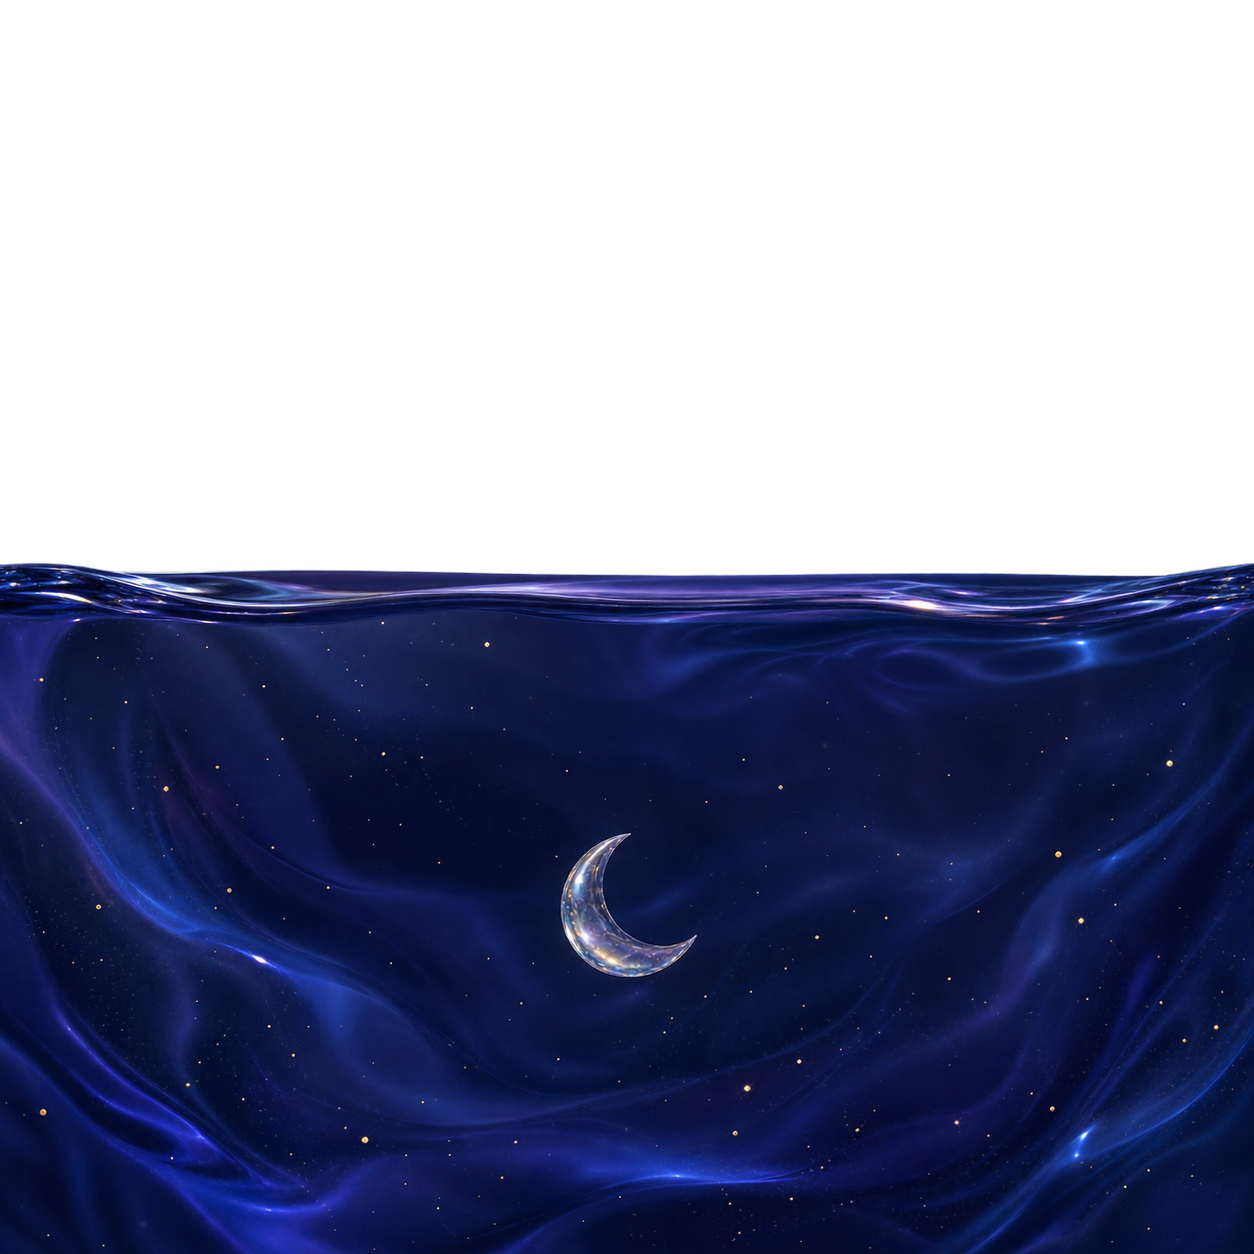
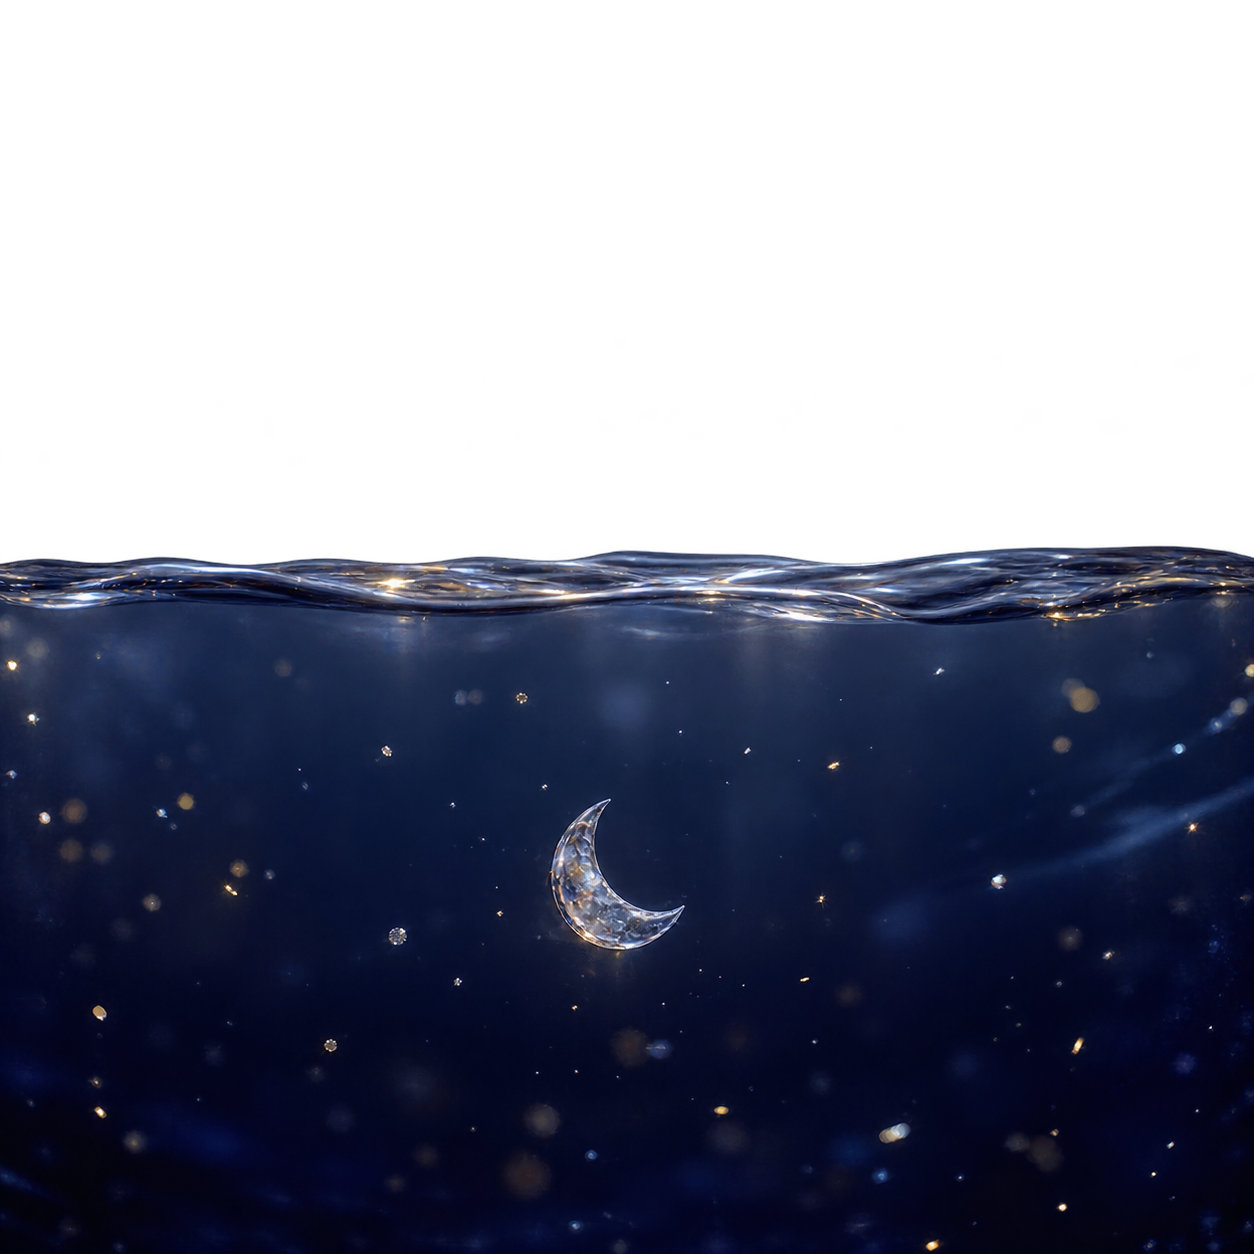
style: clarify night specimen optics

Changed region(s): [[0.0, 0.4354, 1.0, 1.0]]

diff --git a/styles.css b/styles.css
@@ -212,3 +212,4 @@ button { font:inherit; color:inherit; } .atmos { min-height:100svh; position:rel
 
 /* NIGHT AUDIO SPECIMEN: the artwork frame itself is the liquid cell — no nested tank. */
 .liquid-artwork.is-specimen-night { --fluid-x:0px; --fluid-y:0px; --fluid-angle:0deg; border:1px solid rgba(240,249,255,.58); border-radius:27px; background:transparent center / 100% 100% no-repeat url("./assets/audio-specimen-night-interior.png"); box-shadow:inset 0 1px rgba(255,255,255,.72),inset 7px 0 13px rgba(155,220,255,.1),inset -7px 0 13px rgba(216,181,255,.08),inset 0 -8px 14px rgba(106,128,220,.11); transform:none; transition:none; isolation:isolate; }.liquid-artwork.is-specimen-night::before { inset:0; border:0; border-radius:inherit; background:linear-gradient(118deg,rgba(255,255,255,.24),transparent 18% 69%,rgba(225,211,255,.08)); box-shadow:inset 1px 1px rgba(255,255,255,.48),inset -1px -1px rgba(161,215,255,.16); mix-blend-mode:screen; }.liquid-artwork.is-specimen-night::after { top:-45%; left:-58%; width:58%; height:180%; opacity:.12; background:linear-gradient(102deg,transparent 35%,rgba(255,255,255,.55) 49%,transparent 63%); animation-duration:22s; }.liquid-artwork.is-specimen-night .liquid-reflection { z-index:7; top:7%; left:8%; width:38%; height:12%; border-top:2px solid rgba(255,255,255,.32); border-left:1px solid rgba(193,233,255,.14); border-radius:55% 45% 50% 50%; box-shadow:0 -4px 13px rgba(255,255,255,.09); opacity:.28; transform:rotate(-23deg); }.is-specimen-night .night-liquid-inertia { z-index:5; top:44.2%; right:-3%; left:-3%; height:10%; border-radius:48% 52% 15% 15%; background:linear-gradient(180deg,rgba(240,249,255,.16),rgba(191,218,255,.035) 34%,transparent 73%); box-shadow:inset 0 1px rgba(255,255,255,.4),0 3px 13px rgba(155,205,255,.09); clip-path:polygon(0 42%,11% 36%,25% 34%,39% 38%,54% 37%,70% 34%,86% 36%,100% 42%,100% 100%,0 100%); transform:translate3d(var(--fluid-x),var(--fluid-y),0) rotate(var(--fluid-angle)); transform-origin:center 14%; transition:transform 3.8s cubic-bezier(.16,.88,.25,1); }.is-specimen-night .night-liquid-inertia::before { top:2px; right:3%; left:3%; height:7px; border-top-color:rgba(255,255,255,.68); opacity:.5; }.is-specimen-night .night-liquid-inertia::after { top:-3px; left:7%; width:16px; height:9px; opacity:.3; }.is-specimen-night .night-liquid-caustic { z-index:4; right:0; bottom:0; left:0; height:55%; opacity:.08; background:radial-gradient(ellipse at 18% 67%,rgba(203,232,255,.32),transparent 10%),radial-gradient(ellipse at 68% 27%,rgba(245,222,190,.15),transparent 12%),radial-gradient(ellipse at 48% 89%,rgba(125,171,255,.16),transparent 22%); transform:translate3d(calc(var(--fluid-x) * .38),calc(var(--fluid-y) * .19),0); transition:transform 4.8s cubic-bezier(.16,.88,.25,1); }
+.liquid-artwork.is-specimen-night::before { background:transparent; }.liquid-artwork.is-specimen-night::after { opacity:.08; }

diff --git a/sw.js b/sw.js
@@ -1,4 +1,4 @@
-const CACHE = "life-system-v101";
+const CACHE = "life-system-v102";
 const ASSETS = ["./", "./index.html", "./styles.css", "./core-overrides.css", "./app.js", "./atlas-data.js", "./skills-data.js", "./assets/world-core-glass-shell.png", "./assets/world-core-night-sky.png", "./assets/world-core-moon-texture.png", "./assets/world-core-cloud-mask.svg", "./assets/world-core-horizon.svg", "./assets/audio-specimen-night-interior.png", "./assets/audio/celebration-event.mp3", "./assets/audio/rain-field.mp3", "./assets/audio/meal-phase.mp3", "./assets/audio/campus-day.mp3", "./assets/audio/christmas-world.mp3", "./assets/audio/morning-field-entry.mp3", "./assets/audio/home-deep-night.mp3", "./assets/audio/home-morning.mp3", "./assets/audio/home-night.mp3", "./manifest.webmanifest", "./icons/icon.svg"];
 self.addEventListener("install", (event) => event.waitUntil(caches.open(CACHE).then((cache) => cache.addAll(ASSETS)).then(() => self.skipWaiting())));
 self.addEventListener("activate", (event) => event.waitUntil(caches.keys().then((keys) => Promise.all(keys.filter((key) => key !== CACHE).map((key) => caches.delete(key)))).then(() => self.clients.claim())));

diff --git a/index.html b/index.html
@@ -7,7 +7,7 @@
     <meta name="description" content="LIFE SYSTEM — Real World Interface" />
     <link rel="manifest" href="./manifest.webmanifest" />
     <link rel="apple-touch-icon" href="./icons/icon.svg" />
-  <link rel="stylesheet" href="./styles.css?v=46" />
+  <link rel="stylesheet" href="./styles.css?v=47" />
   <link rel="stylesheet" href="./core-overrides.css?v=38" />
     <title>LIFE SYSTEM</title>
   </head>
